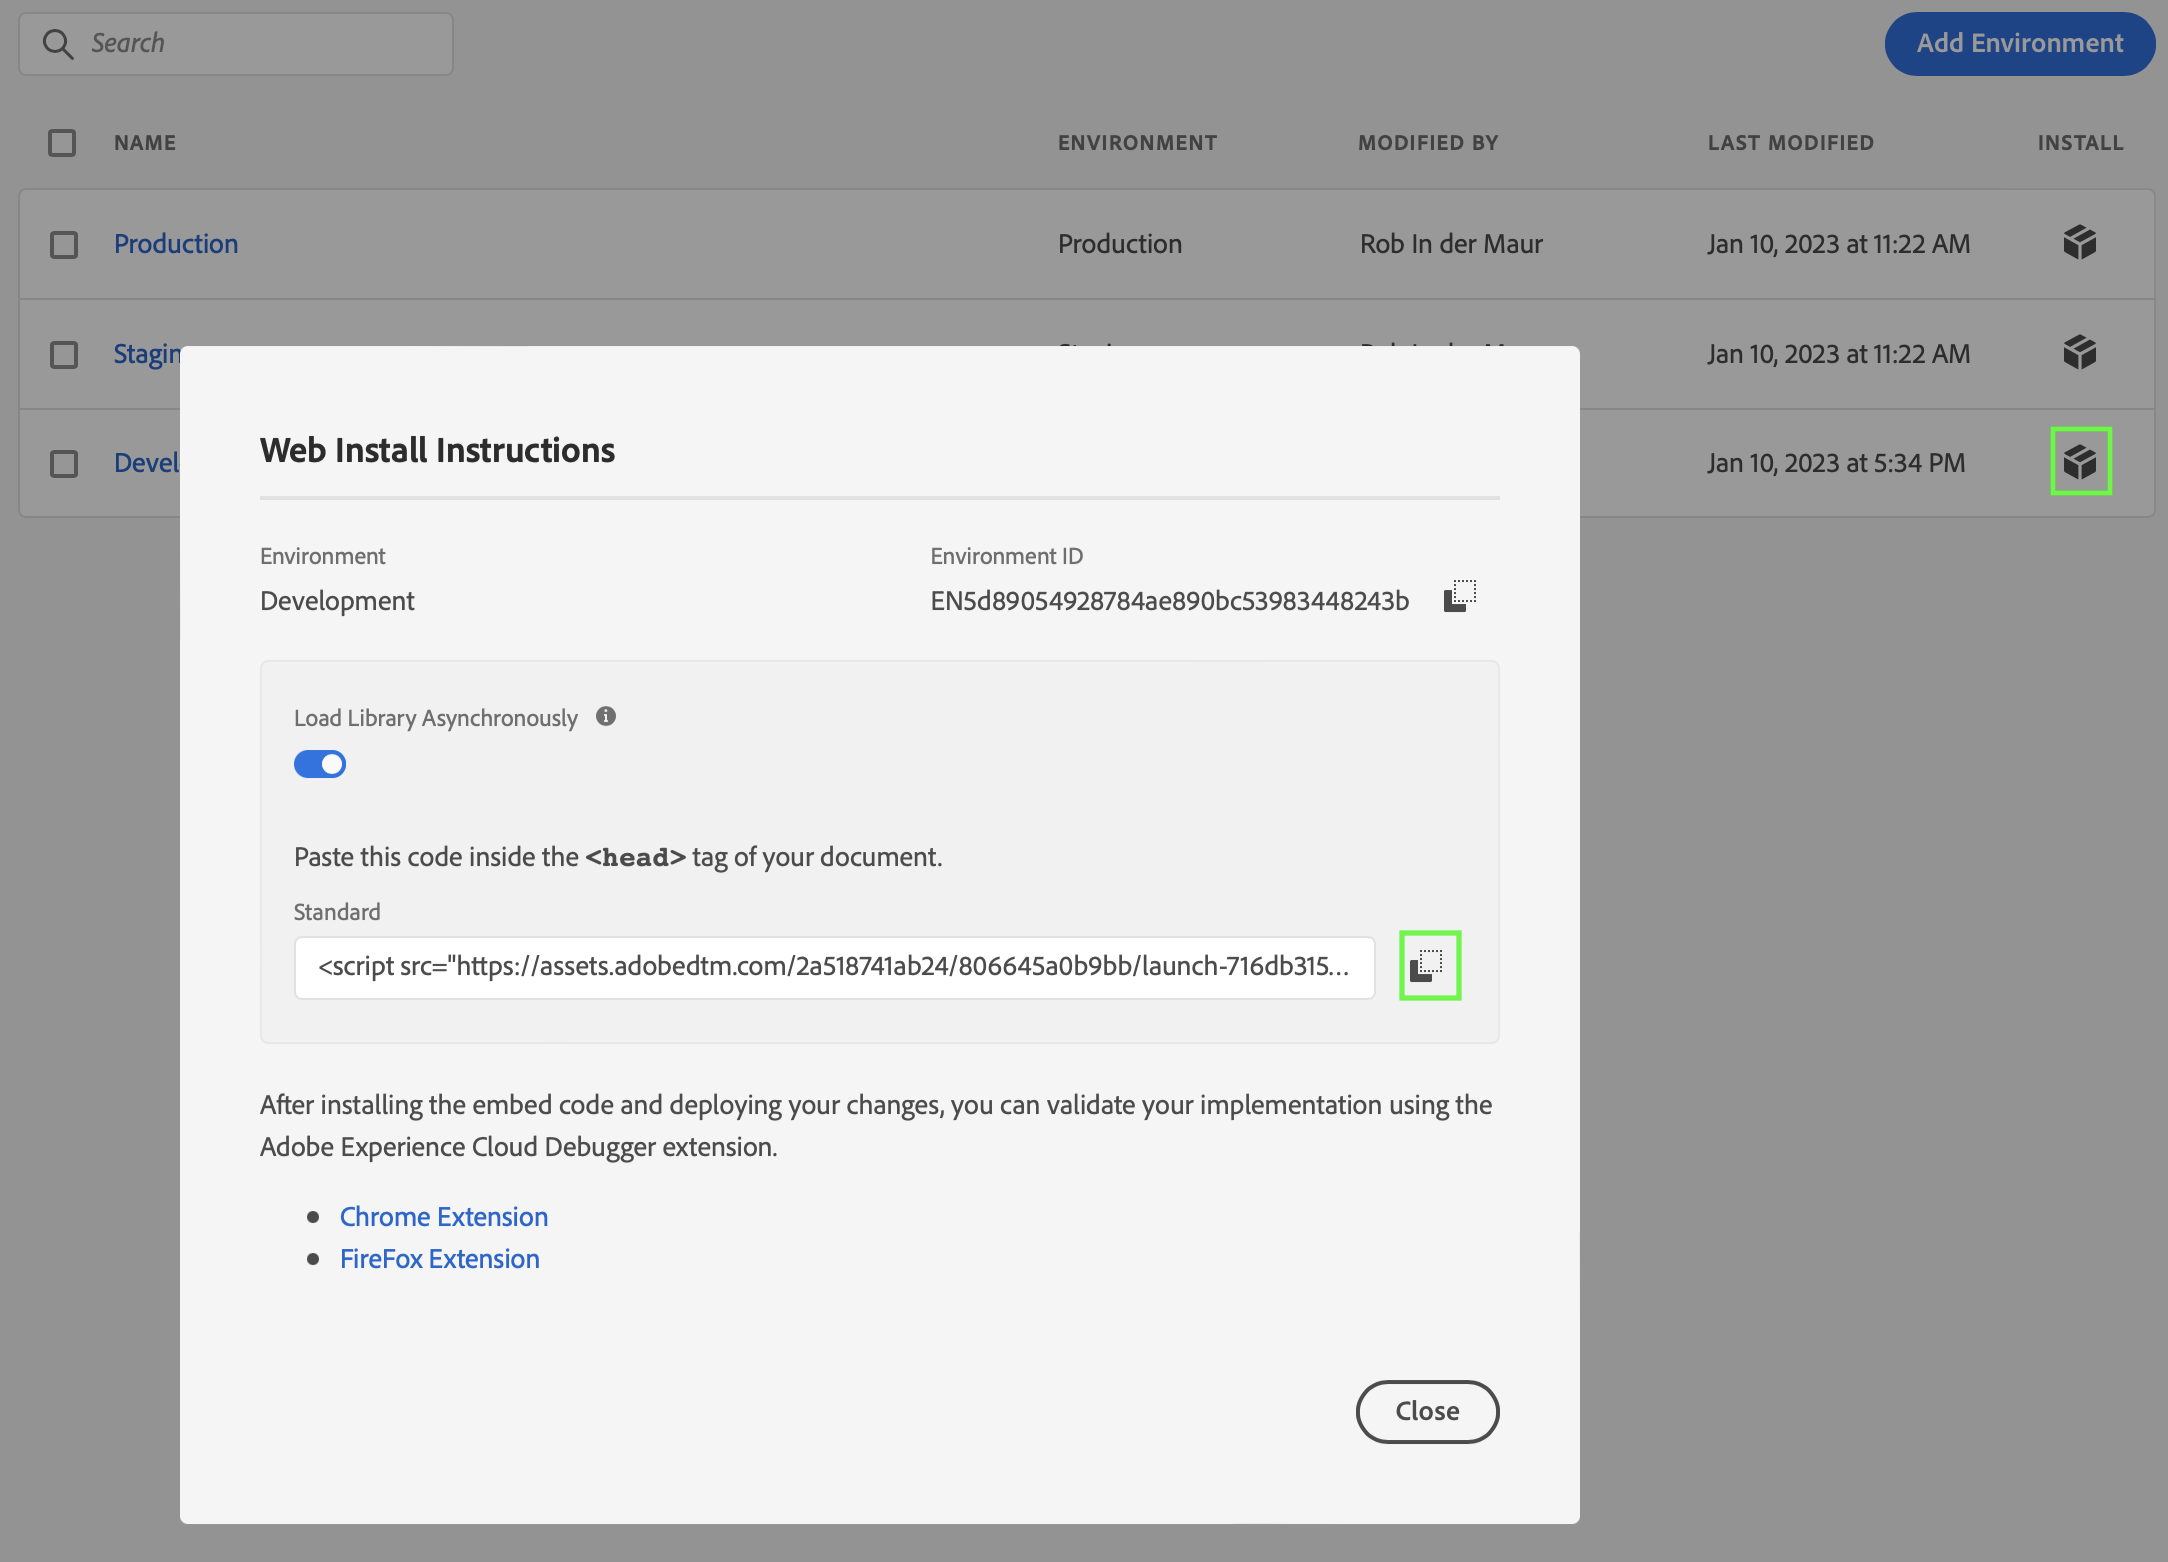
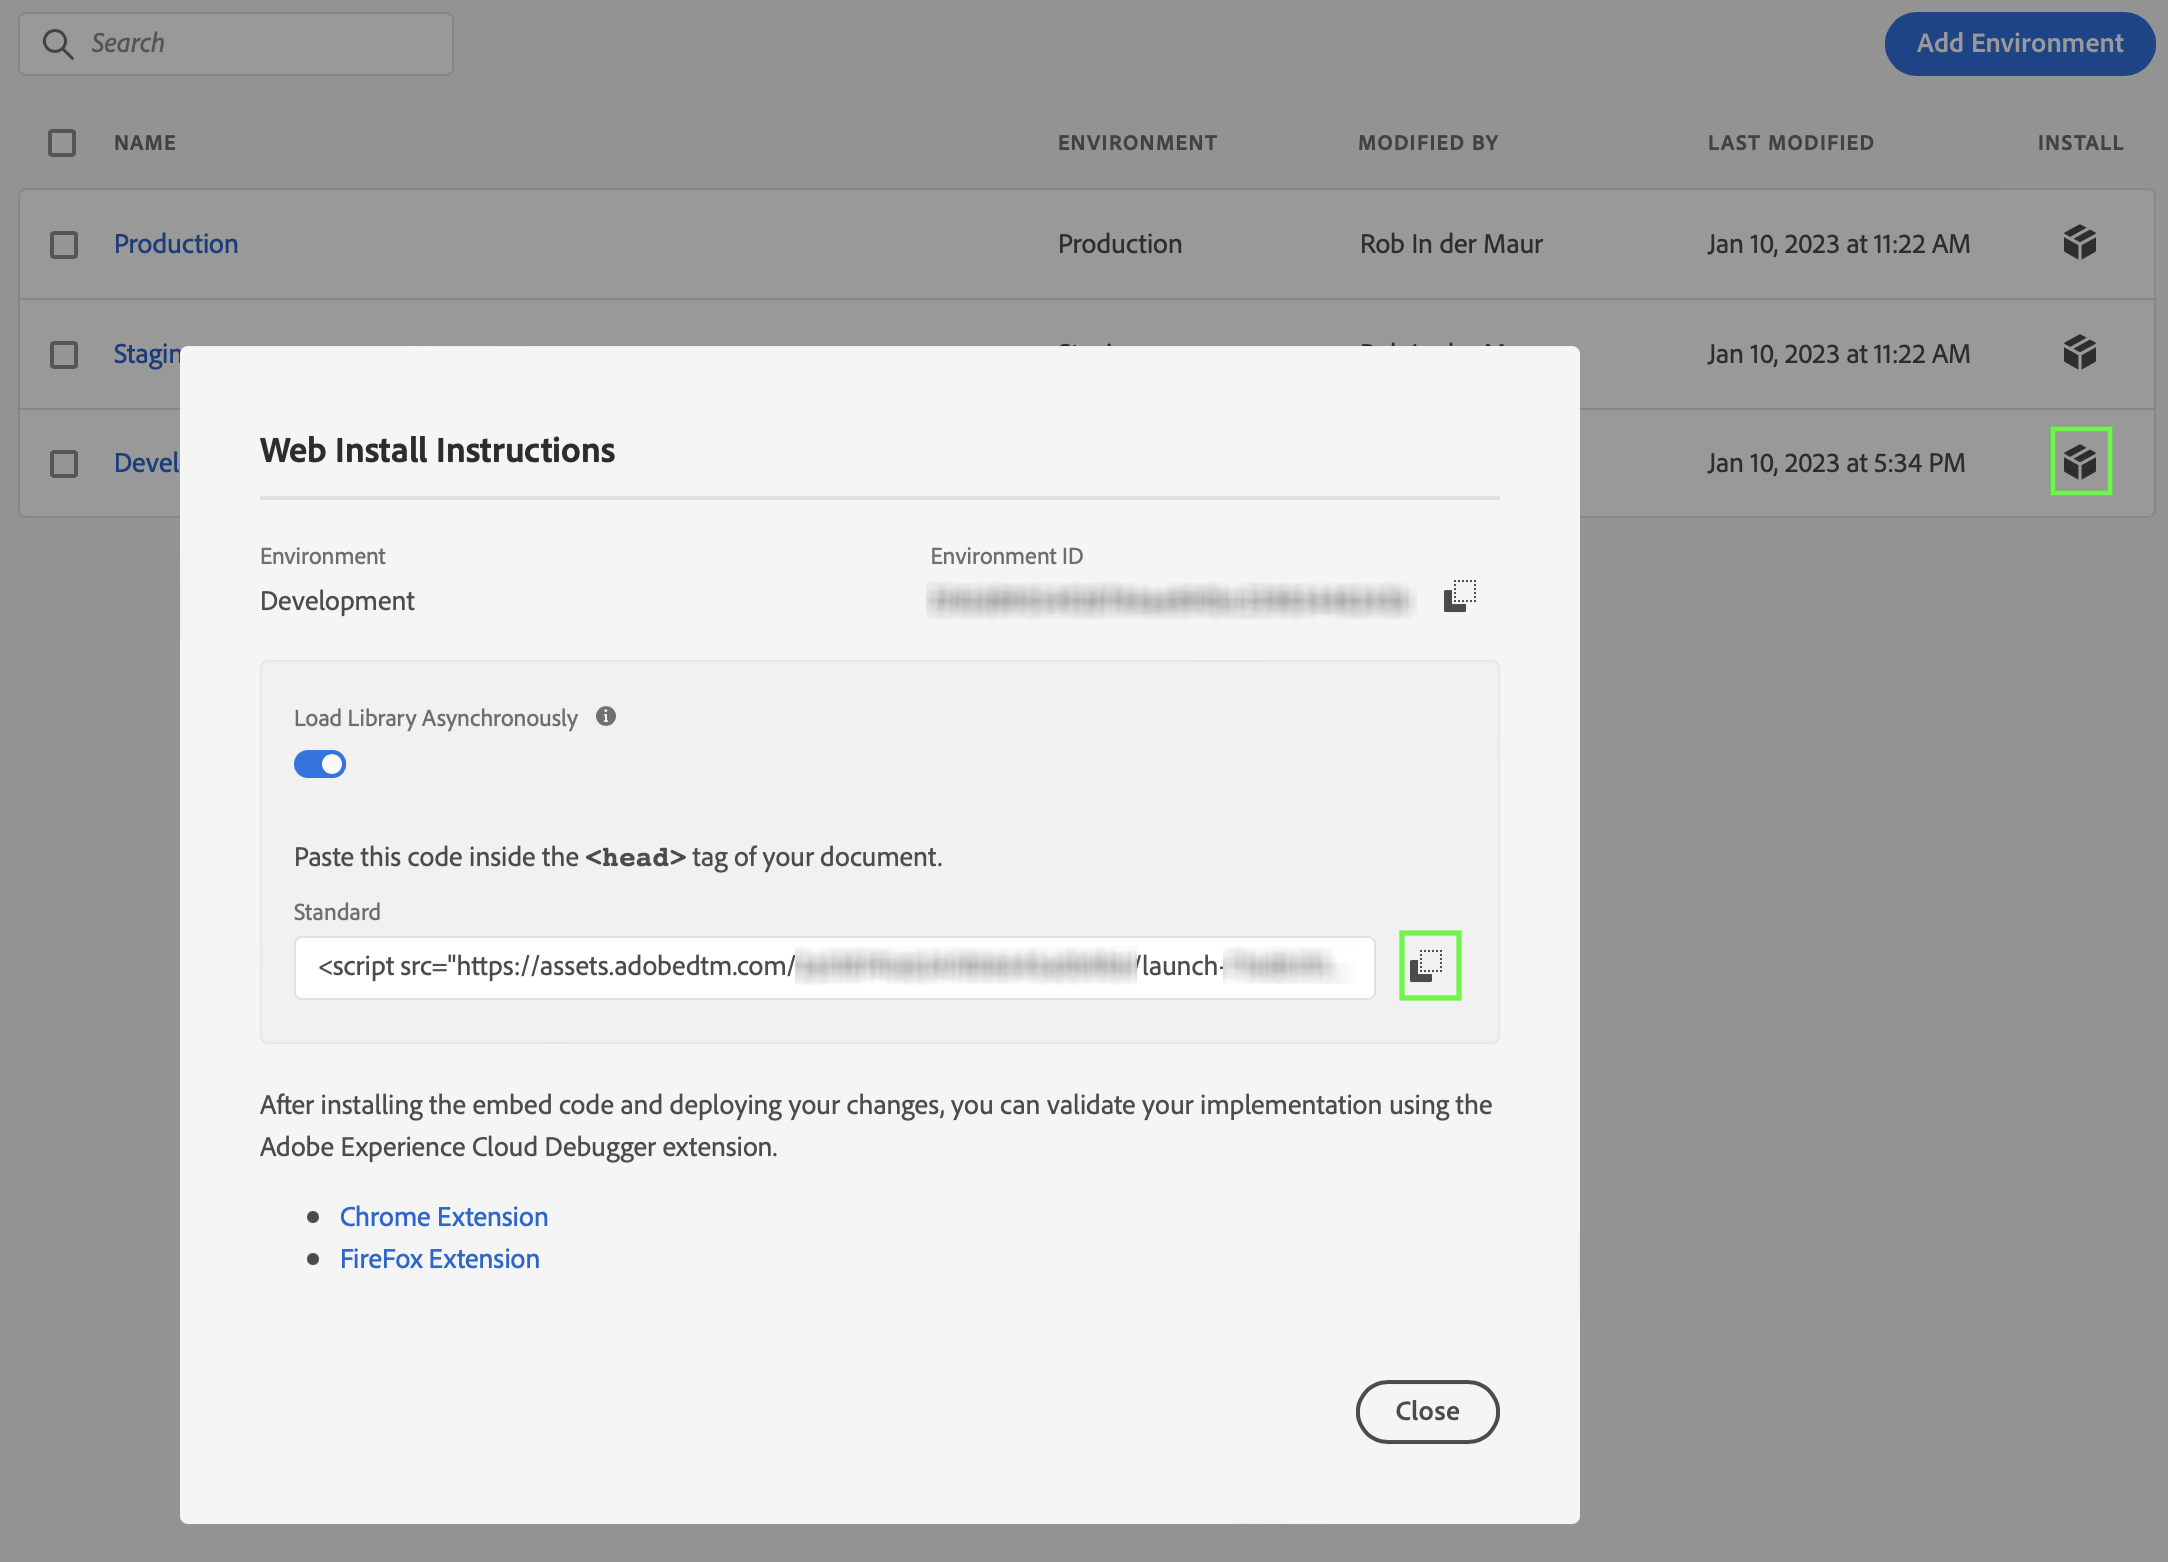
Updated doc release and getting started
Updated doc release and getting started pages with links to new data ingestion quick start guides

Changed region(s): [[0.3708, 0.5839, 0.5254, 0.6453], [0.4327, 0.3688, 0.649, 0.3995], [0.5563, 0.6146, 0.6181, 0.6453]]

diff --git a/help/getting-started/cja-getting-started.md b/help/getting-started/cja-getting-started.md
@@ -22,7 +22,7 @@ Customer Journey Analytics is available for customers who
 | Task | Details |
 | --- | --- |
 | **Step 1: If you are migrating from Adobe Analytics to CJA, learn what to do.** | See [Utilizing Adobe Analytics report suite data in Customer Journey Analytics](/help/getting-started/aa-vs-cja/aa-data-in-cja.md). |
-| **Step 2: Get other data into Adobe Experience Platform** | This step, performed in Adobe Experience Platform, involves several sub steps:<ul><li>**Step 2a: Prepare your data schema**: Use [Adobe Experience Data Model (XDM)](https://experienceleague.adobe.com/docs/experience-platform/xdm/home.html) to standardize customer experience data and [define schemas](https://experienceleague.adobe.com/docs/experience-platform/xdm/tutorials/create-schema-ui.html) for customer experience management.</li><li>**Step 2b: Create a dataset based on the schema**: Data in Platform consists of data sets, such as email data sets, CRM datasets, POS data sets, the Adobe Analytics dataset, etc.. Each data sets consists of a schema and batches of data. You can [create a data set in Experience Platform](https://experienceleague.adobe.com/docs/platform-learn/getting-started-for-data-architects-and-data-engineers/create-datasets.html).</li><li>**Step 2c: Ingest data into Experience Platform**: Here, you have several options. View the [data ingestion use cases](/help/data-ingestion/data-ingestion.md) for more information. |
+| **Step 2: Get other data into Adobe Experience Platform** | This step, performed in Adobe Experience Platform, involves several sub steps:<ul><li>**Step 2a: Prepare your data schema**: Use [Adobe Experience Data Model (XDM)](https://experienceleague.adobe.com/docs/experience-platform/xdm/home.html) to standardize customer experience data and [define schemas](https://experienceleague.adobe.com/docs/experience-platform/xdm/tutorials/create-schema-ui.html) for customer experience management.</li><li>**Step 2b: Create a dataset based on the schema**: Data in Platform consists of data sets, such as email data sets, CRM datasets, POS data sets, the Adobe Analytics dataset, etc.. Each data sets consists of a schema and batches of data. You can [create a data set in Experience Platform](https://experienceleague.adobe.com/docs/platform-learn/getting-started-for-data-architects-and-data-engineers/create-datasets.html).</li><li>**Step 2c: Ingest data into Experience Platform**: Here, you have several options. View [data ingestion overview](/help/data-ingestion/data-ingestion.md) for more information. |
 | **Step 3: Create connections between platform datasets and Customer Journey Analytics** | A connection lets you integrate datasets from Adobe Experience Platform into Workspace. In order to report on Experience Platform datasets, you first have to establish a connection between datasets in Experience Platform and Workspace.<br>See [Create a connection](/help/connections/create-connection.md). |
 | **Step 4: Create data views** | A data view is a "filtered" view of the data. You can create different data views for the same connection, with different settings for visit timeout, attribution, etc.. You can create multiple data views for a single dataset.<br>See [Create a data view](/help/data-views/create-dataview.md). |
 | **Step 5: Report on your cross-channel data in Workspace** | After you have created connections and data views, analyze the data you have brought in using the power and flexibility of Analysis Workspace.<br>See [Perform basic analysis](/help/analysis-workspace/perform-basic-analysis.md) and [Perform advanced analysis](/help/analysis-workspace/perform-adv-analysis.md). |

diff --git a/help/release-notes/doc-changes.md b/help/release-notes/doc-changes.md
@@ -14,6 +14,7 @@ The following updates were made to the CJA documentation since its inception.
 | Feature | Description |
 | --- | --- |
 | **January 2023** | |
+| Quick start guides | New documentation section on how to [ingest and use data](/help/data-ingestion/data-ingestion.md) in CJA.
 | Folders | Dedicated pages for [Folders management](/help/analysis-workspace/build-workspace-project/workspace-folders/about-folders.md).  |
 | User preferences | Many additional user preferences are now available in [Preferences](/help/analysis-workspace/user-preferences.md).  |
 | Auto-save for projects | Updated content to include auto-save functionality in [Save projects](/help/analysis-workspace/build-workspace-project/save-projects.md).  |

diff --git a/help/data-ingestion/aepwebsdk.md b/help/data-ingestion/aepwebsdk.md
@@ -461,7 +461,7 @@ To get the code that references your tag:
     In the [!UICONTROL Web Install Instructions] dialog, select the copy button next to the script code that should read like:
 
     ```javascript
-    <script src="https://assets.adobedtm.com/2a518741ab24/806645a0b9bb/launch-716db315b4e2-development.min.js" async></script>
+    <script src="https://assets.adobedtm.com/2a518741ab24/.../launch-...-development.min.js" async></script>
     ```
     
     ![Environment](./assets/environment.png)
